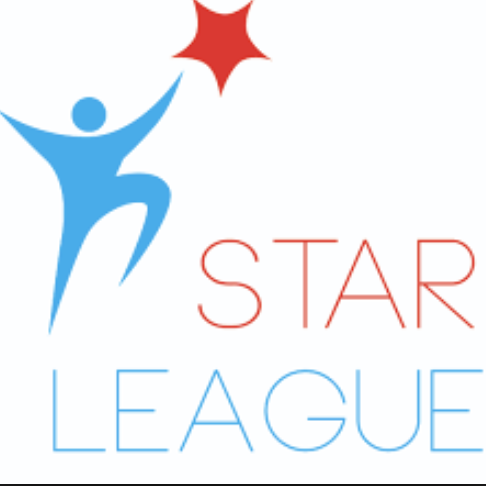
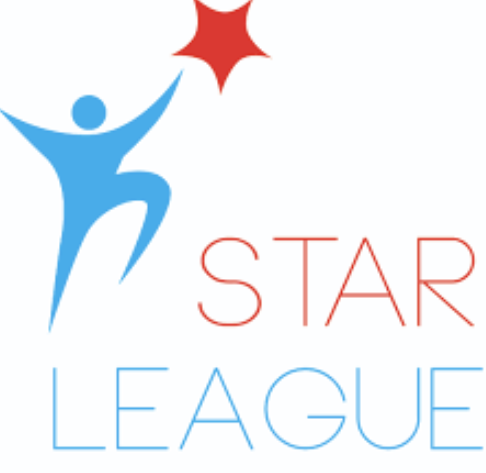
added images to exp

diff --git a/index.html b/index.html
@@ -100,7 +100,7 @@
 					<div class="col-lg-12 text-center">
 						<div class="section-title">
 							<h2>ABOUT</h2>
-							<p>I'm a student at <a href="https://www.harvard.edu/">Harvard</a> studying <a href="https://www.seas.harvard.edu/computer-science">computer science</a> and <a href="https://statistics.fas.harvard.edu/">statistics</a>, with interests in coding, machine learning, and finance. 
+							<p>I'm a sophomore at <a href="https://www.harvard.edu/">Harvard</a> studying <a href="https://www.seas.harvard.edu/computer-science">computer science</a> and <a href="https://statistics.fas.harvard.edu/">statistics</a>, with interests in coding, machine learning, and finance. 
 							At Harvard, I'm involved with <a href="http://hackharvard.io/">HackHarvard</a>, the Quantitative Research division of <a href="http://www.harvardfac.org/">Harvard Financial Analysts Club</a>, and the Business Board of the <a href="https://www.thecrimson.com/">Harvard Crimson</a>. 
             				Some of my interests and hobbies include following the NBA, playing Ultimate Frisbee and basketball, browsing Youtube and Quora, and drinking boba.</p>
 						</div>
@@ -164,7 +164,7 @@
 					<div class="col-md-3">
 						<div class="team-item">
 							<div class="team-image">
-								<img src="images/demo/author-3.jpg" class="img-responsive">
+								<img src="images/bitvore.png" class="img-responsive">
 							</div>
 							<div class="team-text">
 								<h3>Bitvore</h3>
@@ -181,7 +181,7 @@
 					<div class="col-md-3">
 						<div class="team-item">
 							<div class="team-image">
-								<img src="images/demo/author-3.jpg" class="img-responsive">
+								<img src="images/aops.jpg" class="img-responsive">
 							</div>
 							<div class="team-text">
 								<h3>Art of Problem Solving</h3>
@@ -198,7 +198,7 @@
 					<div class="col-md-3">
 						<div class="team-item">
 							<div class="team-image">
-								<img src="images/demo/author-4.jpg" class="img-responsive">
+								<img src="images/starleague.png" class="img-responsive">
 							</div>
 							<div class="team-text">
 								<h3>Star League Summer Camp</h3>
@@ -214,7 +214,7 @@
 					<div class="col-md-3">
 						<div class="team-item">
 							<div class="team-image">
-								<img src="images/demo/author-6.jpg" class="img-responsive">
+								<img src="images/coh.jpg" class="img-responsive">
 							</div>
 							<div class="team-text">
 								<h3>City of Hope</h3>

diff --git a/css/style.css b/css/style.css
@@ -570,7 +570,13 @@ figure.effect-bubba:hover p {
     color: #9C9C9C;
     padding: 5px 10px 20px 10px;
 }
-    
+
+.team-image img {
+    width: 300px;
+    height: 200px;
+    object-fit: scale-down;
+}
+   
 
 /*--------------------
 4.7. Contacts
